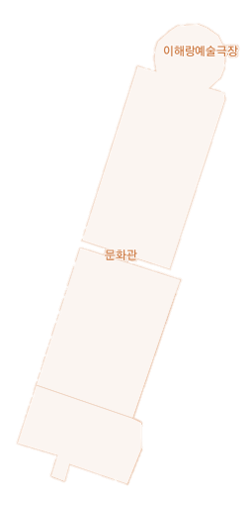
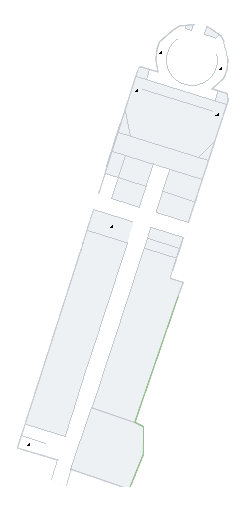
학술관 문화관 단면도 추가

diff --git a/lib/save/save.dart b/lib/save/save.dart
@@ -59,6 +59,7 @@ List<String> allFileNames = [
   '과학관1.png',
   '문화관B1.png',
   '문화관1.png',
+  '문화관3.png',
   '문화관4.png',
   '법학관_만해관_1F.png',
   '명진관1.png',
@@ -77,9 +78,9 @@ List<String> allFileNames = [
   '정보문화관q_3F.png',
   '정보문화관p_2F.png',
   '학림관_1F.png',
+  '학술관B1.png',
   '학술관1.png',
-  '학술관2.png',
-  '학술관3.png',
+  '학술관4.png',
   '혜화관1.png',
   '혜화관4.png',
 ];
@@ -1081,21 +1082,21 @@ void initGraph() {
       showRoute2: false);
   graph.addEdge("문화관 사회과학관 계단 아래", "문화관 사회과학관 계단 중간2", 138, "계단위", "도보");
 //125
-  graph.addEdge("문화관 사회과학관 계단 아래", "문화관 1층 입구 앞", 72, "평지", "차도",
-      node2X: 2382,
-      node2Y: 2793,
+  graph.addEdge("문화관 사회과학관 계단 아래", "문화관 1층 입구 앞", 61, "평지", "차도",
+      node2X: 2385,
+      node2Y: 2782,
       isInside2: 0,
       building2: "실외",
       showRoute2: false);
-  graph.addEdge("문화관 1층 입구 앞", "문화관 사회과학관 계단 아래", 72, "평지", "차도");
+  graph.addEdge("문화관 1층 입구 앞", "문화관 사회과학관 계단 아래", 61, "평지", "차도");
 //204
-  graph.addEdge("문화관 1층 입구 앞", "문화관 1층 입구", 8, "평지", "도보",
-      node2X: 2389,
-      node2Y: 2796,
+  graph.addEdge("문화관 1층 입구 앞", "문화관 1층 입구", 7, "평지", "도보",
+      node2X: 2392,
+      node2Y: 2784,
       isInside2: 0,
       building2: "실외",
       showRoute2: false);
-  graph.addEdge("문화관 1층 입구", "문화관 1층 입구 앞", 8, "평지", "도보");
+  graph.addEdge("문화관 1층 입구", "문화관 1층 입구 앞", 7, "평지", "도보");
 //205
   graph.addEdge("문화관 1층 입구 앞", "사회과학관 B1 엘베 입구", 218, "평지", "차도",
       node2X: 2315,
